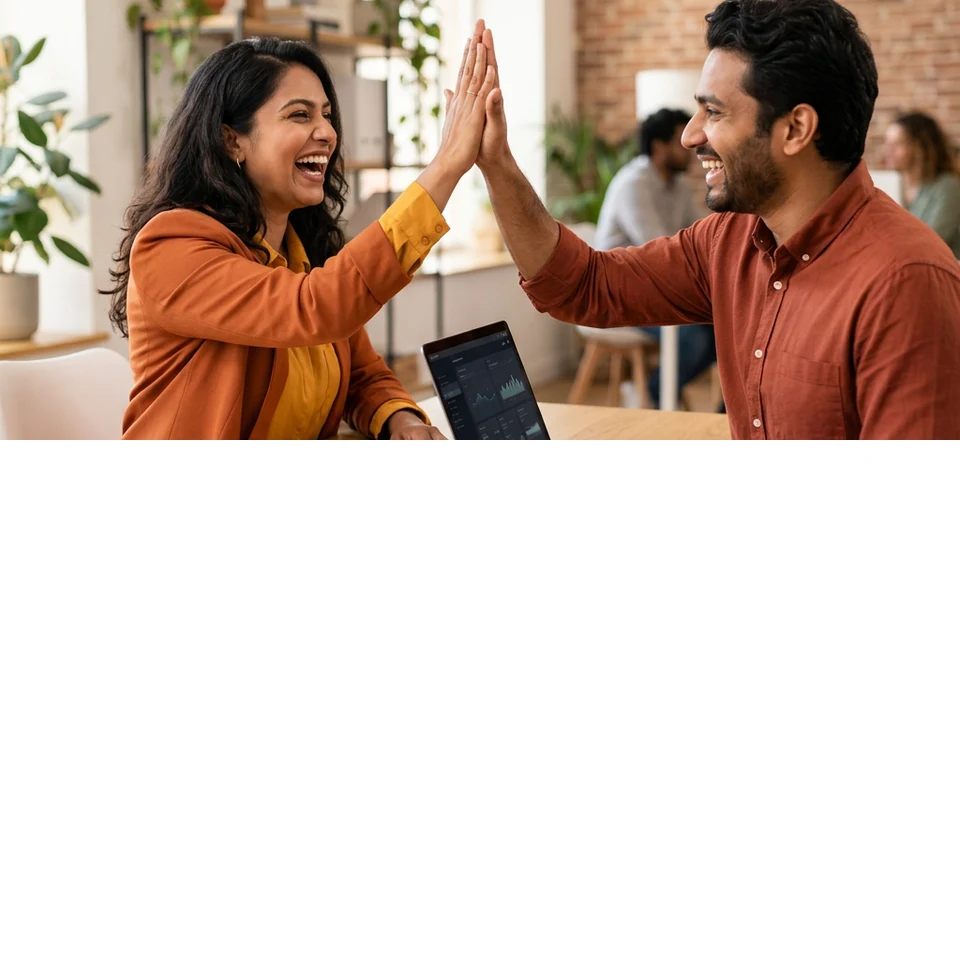
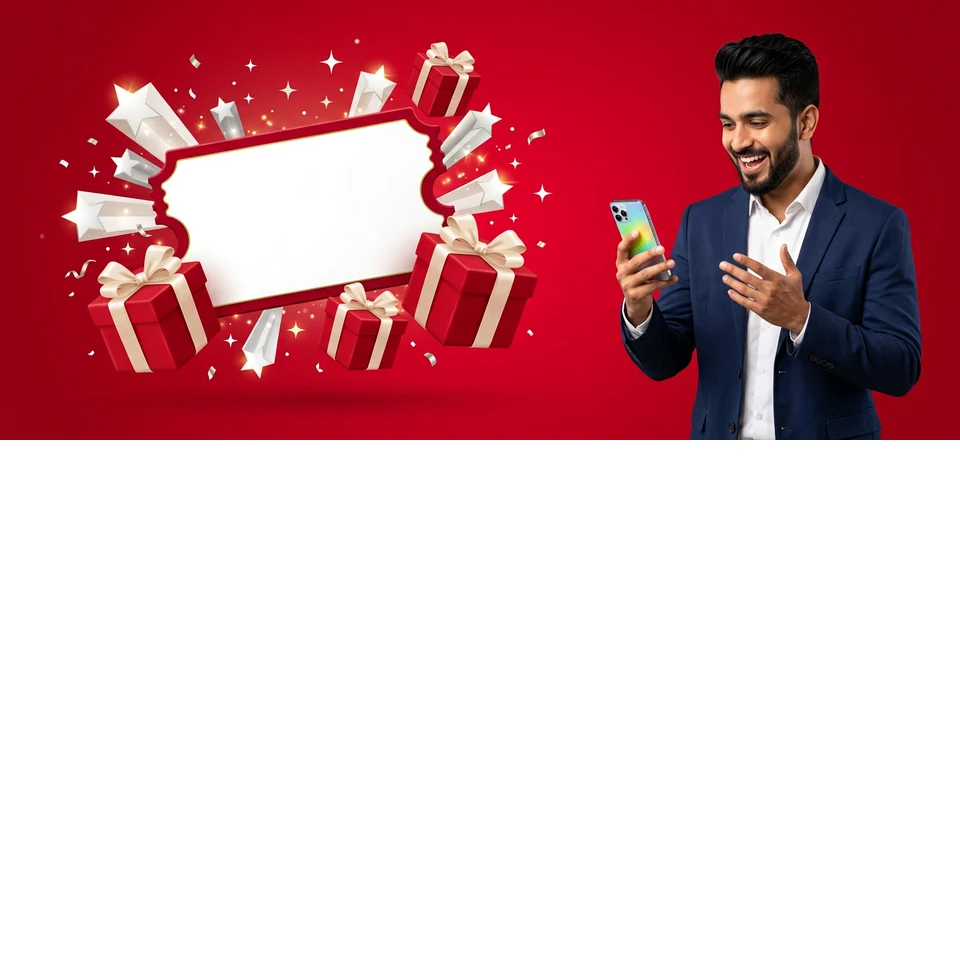
Refine campaign artwork and solid offer colors, clarify contact copy and enable demo

diff --git a/revamp/src/app/globals.css b/revamp/src/app/globals.css
@@ -153,32 +153,20 @@
   }
 }
 
-/* OFFER COLORS: the one intentional hard-coded palette exception.
-   White text against every gradient endpoint exceeds WCAG AA 4.5:1. */
+/* OFFER COLORS: one coordinated solid color per campaign, no gradients.
+   White text against every campaign color exceeds WCAG AA 4.5:1. */
 :root {
   --offer-ink: #ffffff;
-  --offer-new-start: #075985;
-  --offer-new-end: #065f46;
-  --offer-hot-start: #9f1239;
-  --offer-hot-end: #9a3412;
-  --offer-festive-start: #701a75;
-  --offer-festive-end: #92400e;
+  --offer-new: #1d4ed8;
+  --offer-hot: #b91c1c;
+  --offer-festive: #9f1239;
 }
-[data-tone="new"] {
-  --offer-from: var(--offer-new-start);
-  --offer-to: var(--offer-new-end);
-}
-[data-tone="hot"] {
-  --offer-from: var(--offer-hot-start);
-  --offer-to: var(--offer-hot-end);
-}
-[data-tone="festive"] {
-  --offer-from: var(--offer-festive-start);
-  --offer-to: var(--offer-festive-end);
-}
+[data-tone="new"] { --offer-background: var(--offer-new); }
+[data-tone="hot"] { --offer-background: var(--offer-hot); }
+[data-tone="festive"] { --offer-background: var(--offer-festive); }
 .offer-colors {
   color: var(--offer-ink);
-  background: linear-gradient(110deg, var(--offer-from), var(--offer-to));
+  background: var(--offer-background);
 }
 .offer-strip {
   position: relative;

diff --git a/revamp/scripts/offer.test.ts b/revamp/scripts/offer.test.ts
@@ -29,7 +29,7 @@ test("wrong product IDs warn in development and do not become customer-facing te
   }
 });
 
-test("offer text exceeds 4.5:1 across every tone gradient", () => {
+test("offer text exceeds 4.5:1 against each solid campaign color", () => {
   const css = readFileSync("src/app/globals.css", "utf8");
   const color = (name: string) => {
     const hex = css.match(new RegExp(`--offer-${name}: (#\\w{6})`))![1];
@@ -38,10 +38,7 @@ test("offer text exceeds 4.5:1 across every tone gradient", () => {
   const luminance = (rgb: number[]) => rgb.map((c) => c <= 0.04045 ? c / 12.92 : ((c + 0.055) / 1.055) ** 2.4).reduce((sum, c, i) => sum + c * [0.2126, 0.7152, 0.0722][i], 0);
   const ink = luminance(color("ink"));
   for (const tone of ["new", "hot", "festive"]) {
-    const start = color(`${tone}-start`), end = color(`${tone}-end`);
-    for (let step = 0; step <= 100; step++) {
-      const background = luminance(start.map((c, i) => c + (end[i] - c) * step / 100));
-      assert.ok((Math.max(background, ink) + 0.05) / (Math.min(background, ink) + 0.05) >= 4.5, `${tone}: ${step}%`);
-    }
+    const background = luminance(color(tone));
+    assert.ok((Math.max(background, ink) + 0.05) / (Math.min(background, ink) + 0.05) >= 4.5, tone);
   }
 });

diff --git a/revamp/src/components/offers/site-popup.tsx b/revamp/src/components/offers/site-popup.tsx
@@ -77,11 +77,11 @@ export function SitePopup() {
               {offer ? "A little more, for less" : "Let’s talk software"}
             </p>
             <Dialog.Title className={`popup-heading mt-2 font-semibold tracking-tight ${offer ? "" : "max-w-[15ch]"}`}>
-              {offer?.heading ?? "Your next move, made simple."}
+              {offer?.heading ?? "Can’t find the right product?"}
             </Dialog.Title>
             {offer && <p className="popup-discount font-bold tracking-[-0.06em]">{offer.discount}</p>}
             <Dialog.Description className={offer ? "popup-description popup-products" : "popup-description text-slate-600"}>
-              {offer ? offerProductNames : "Tell us what you need. We’ll help you find the right fit."}
+              {offer ? offerProductNames : "Contact our team. We’ll help you choose the right solution."}
             </Dialog.Description>
             <Link href={contact.contactPath} onClick={close} className={`${buttonVariants()} popup-cta ${offer ? "offer-colors" : ""}`} data-tone={offer?.tone}>
               {offer?.cta ?? "Contact us"}

diff --git a/revamp/src/components/offers/offer-strip.tsx b/revamp/src/components/offers/offer-strip.tsx
@@ -19,7 +19,7 @@ export function OfferStrip() {
             {[0, 1, 2].map((repeat) => (
               <span key={repeat} className="offer-strip-message" aria-hidden={repeat > 0 || undefined}>
                 <span title={text}>{text}</span>
-                <Link href={contact.contactPath} tabIndex={group || repeat ? -1 : undefined} className="shrink-0 font-bold underline underline-offset-4">{cta}</Link>
+                <Link href={contact.contactPath} tabIndex={group || repeat ? -1 : undefined} className="shrink-0 font-bold">{cta}</Link>
               </span>
             ))}
           </div>

diff --git a/revamp/src/data/offer.ts b/revamp/src/data/offer.ts
@@ -52,7 +52,15 @@ export type Offer = {
   cta: string;
 };
 
-export const offer: Offer | null = null;
+// DEMO ONLY: enabled for review. Set this object to null before going live.
+export const offer: Offer | null = {
+  id: "demo-festive-preview",
+  tone: "festive",
+  heading: "Demo offer",
+  discount: "20% off",
+  products: ["k-exam", "k-edusity"],
+  cta: "Claim offer",
+};
 
 // Generated square artwork ships locally so every popup works immediately.
 // If moved to ImageKit later, replace these four URLs here after uploading.

diff --git a/revamp/README.md b/revamp/README.md
@@ -106,6 +106,10 @@ To roll back, restore the backed-up files and hosting rules. Keep older `_next` 
 
 ## 8. Offer strip and popup
 
+**A dummy festive offer is currently enabled for review**, labelled "Demo offer"
+with 20% off K-Exam and K-Edusity. This is test content, not an approved live
+promotion. Set `offer` to `null` or replace it with an approved offer before launch.
+
 **Only edit `src/data/offer.ts` to add/remove an offer.** Its opening comment
 has filled all-product and two-product examples, field explanations and the
 handoff steps. Keep `offer = null` for the ordinary Contact popup. An offer
@@ -130,13 +134,15 @@ is portalled and does not participate in hero layout. Reduced motion stops the
 marquee and uses a fade-only popup entrance.
 
 All four popups are square. Dedicated generated artwork is bundled in
-`public/popups/` for Contact, New, Hot and Festive, with dedicated communication artwork for Contact and happy Indian business /
-festive family photography for offers, not gradient placeholders. `popupImages` in the offer data file selects them.
+`public/popups/` for Contact, New, Hot and Festive, with communication artwork for Contact and promotional campaign artwork for
+New, Hot and Festive. Gifts, coupons and celebration props signal an offer;
+Festive has no Diwali-specific or other occasion-specific symbols. `popupImages` in the offer data file selects them.
 The images ship locally so they work immediately; move them to ImageKit only
 after uploading, then update those four URLs in the same file. The original
 product-banner prompt has not been changed. Mobile square cards remain compact
 (at most half the viewport height); desktop cards are centered. The offer
-palette remains in the labelled offer-colors block in `globals.css`.
+palette uses solid blue, red and crimson with white text, defined once in the
+labelled offer-colors block in `globals.css`. Strip CTAs are not underlined.
 
 After editing, build, test on staging, then zip `out/` contents and send to Kapil
 sir. No date scheduler, API, new provider or offer backend is involved.

diff --git a/revamp/VERIFICATION.md b/revamp/VERIFICATION.md
@@ -174,3 +174,23 @@ square bounds, image decoding, borderless base, highlighted product names,
 no product/CTA overlap, repeated opening after reload despite old storage keys,
 and strip dismissal/reset. Final build/type checks, all nine tests and export
 SEO/icon audits pass. Final offer remains null.
+
+## Campaign artwork, solid colors and enabled demo
+
+Contact copy now says "Can’t find the right product?" and asks visitors to
+contact the team for help choosing a solution. All offer gradients were removed:
+New uses solid blue, Hot solid red, and Festive solid crimson. Contrast checks
+verify white text against each solid campaign color. Strip CTA underline removed.
+
+Three replacement images use promotional gift/coupon/confetti campaign designs,
+not ordinary business scenes. Festive is year-round without Diwali/religious
+symbols. The original banner prompt is unchanged. Generated images stay bundled
+locally and the popup remains square and borderless.
+
+A clearly labelled "Demo offer" is enabled intentionally for review, 20% off
+K-Exam and K-Edusity. Unlike earlier final-null states, this build has the dummy
+active at the user's explicit request; remove/replace it before production.
+Chromium checks at 320×568 and 1366×768 passed for demo and temporary-null
+Contact variants: correct copy, names, square layout, CTA within the card,
+solid backgrounds, no strip underline and working strip dismissal. Demo was
+restored and rebuilt after tests. Build, types, nine tests and export audits pass.
